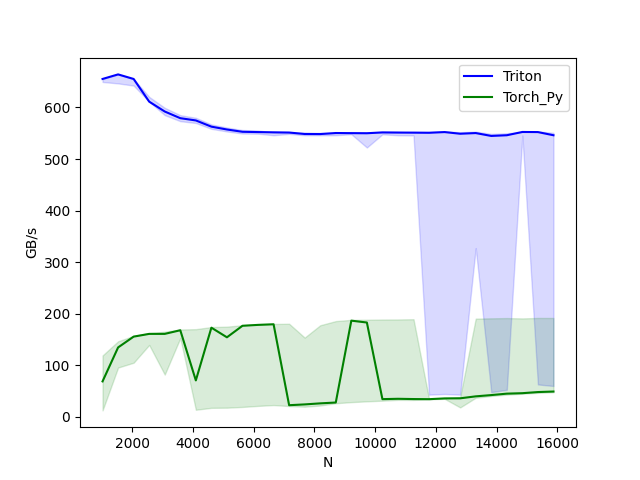
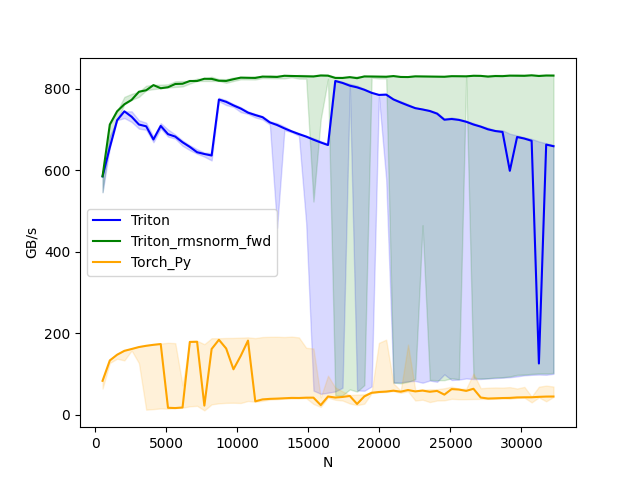
feat: optimized rmsnorm kernel support llama and qwen2

diff --git a/test/kernels_benchmark.py b/test/kernels_benchmark.py
@@ -1,14 +1,13 @@
 import torch, triton, math, os, sys
 
 sys.path.append(os.path.abspath(os.path.join(os.path.dirname(__file__), "../")))
-
-from lite_llama.kernels.fused_linear import fused_ffn
+from lite_llama.kernels.fused_linear import fused_linear
 from lite_llama.kernels.rmsnorm import rmsnorm
+from lite_llama.kernels.rmsnorm_layer import rmsnorm_fwd
 from lite_llama.kernels.layernorm import layernorm
 from lite_llama.kernels.softmax import softmax, naive_softmax, online_softmax
 from lite_llama.kernels.rope import rope as rope_triton
-
-from lite_llama.test.test_torch_rope import LlamaRotaryEmbedding, apply_rotary_emb, apply_rotary_pos_emb
+from lite_llama.kernels.rope_layer import apply_rotary_pos_emb
 try:
     # This is https://github.com/NVIDIA/apex, NOT the apex on PyPi, so it
     # should not be added to extras_require in setup.py.
@@ -18,12 +17,11 @@ except ModuleNotFoundError:
     HAS_APEX = False
     
 def is_cuda():
-    return triton.runtime.driver.active.get_current_target().backend == "cuda"
+    return torch.cuda.is_available()
 
-result_path = "/gemini/code/pytriton_llama/benchmark_result/"
+result_path = "/gemini/code/lite_llama/images"
 ref_lib = 'cuBLAS' if is_cuda() else 'rocBLAS'
 TORCH_HAS_FP8 = hasattr(torch, "float8_e5m2")
-
 ################################benchamrk matmul################################
 configs = []
 for fp8_inputs in [False, True]:
@@ -47,7 +45,7 @@ for fp8_inputs in [False, True]:
 
 
 @triton.testing.perf_report(configs)
-def benchmark(M, N, K, provider, fp8_inputs):
+def benchmark_matmul(M, N, K, provider, fp8_inputs):
     a = torch.randn((M, K), device='cuda', dtype=torch.float16)
     b = torch.randn((K, N), device='cuda', dtype=torch.float16)
     if TORCH_HAS_FP8 and fp8_inputs:
@@ -60,7 +58,7 @@ def benchmark(M, N, K, provider, fp8_inputs):
     if provider == ref_lib.lower():
         ms, min_ms, max_ms = triton.testing.do_bench(lambda: torch.matmul(a, b), quantiles=quantiles)
     if provider == 'triton':
-        ms, min_ms, max_ms = triton.testing.do_bench(lambda: fused_ffn(a, b), quantiles=quantiles)
+        ms, min_ms, max_ms = triton.testing.do_bench(lambda: fused_linear(a, b), quantiles=quantiles)
     perf = lambda ms: 2 * M * N * K * 1e-12 / (ms * 1e-3)
     return perf(ms), perf(max_ms), perf(min_ms)
 
@@ -85,10 +83,10 @@ class RMSNorm(nn.Module):
 @triton.testing.perf_report(
     triton.testing.Benchmark(
         x_names=['N'],
-        x_vals=[512 * i for i in range(2, 32)],
+        x_vals=[512 * i for i in range(1, 64)],
         line_arg='provider',
-        line_vals=['triton', 'torch'] + (['apex'] if HAS_APEX else []),
-        line_names=['Triton', 'Torch_Py'] + (['Apex'] if HAS_APEX else []),
+        line_vals=['triton_rmsnorm', 'triton_rmsnorm_fwd', 'torch'] + (['apex'] if HAS_APEX else []),
+        line_names=['Triton', 'Triton_rmsnorm_fwd', 'Torch_Py'] + (['Apex'] if HAS_APEX else []),
         styles=[('blue', '-'), ('green', '-'), ('orange', '-')],
         ylabel='GB/s',
         plot_name='rms-norm-forward',
@@ -107,17 +105,16 @@ def bench_rmsnorm(M, N, dtype, provider, mode='forward', eps=1e-5, device='cuda'
     quantiles = [0.5, 0.2, 0.8]
 
     def y_fwd():
-        if provider == "triton":
-            return rmsnorm(x, weight)  # noqa: F811, E704
+        if provider == "triton_rmsnorm":
+            return rmsnorm(x, weight, eps=1e-6)  # noqa: F811, E704
 
         if provider == "torch":
             rmsnorm_pytorch = RMSNorm(x_shape[-1]).to(device)
             return rmsnorm_pytorch(x)
             # return torch.nn.functional.rms_norm(x, w_shape, weight, bias, eps)  # noqa: F811, E704
 
-        if provider == "apex":
-            apex_layer_norm = (apex.normalization.FusedLayerNorm(w_shape).to(x.device).to(x.dtype))
-            return apex_layer_norm(x)  # noqa: F811, E704
+        if provider == "triton_rmsnorm_fwd":
+            return rmsnorm_fwd(x, weight, 1e-6)  # noqa: F811, E704
 
     # forward pass
     if mode == 'forward':
@@ -129,7 +126,6 @@ def bench_rmsnorm(M, N, dtype, provider, mode='forward', eps=1e-5, device='cuda'
 bench_rmsnorm.run(print_data=True, save_path=result_path)
 
 ################################benchamrk layernorm################################
-
 @triton.testing.perf_report(
     triton.testing.Benchmark(
         x_names=['N'],
@@ -142,6 +138,7 @@ bench_rmsnorm.run(print_data=True, save_path=result_path)
         plot_name='layer-norm-forward',
         args={'M': 4096, 'dtype': torch.float16, 'mode': 'forward'},
     ))
+
 def bench_layer_norm(M, N, dtype, provider, mode='forward', eps=1e-5, device='cuda'):
     # create data
     x_shape = (M, N)
@@ -193,7 +190,8 @@ bench_layer_norm.run(print_data=True, save_path=result_path)
         args={'M': 4096},  # values for function arguments not in `x_names` and `y_name`
     ))
 
-def benchmark(M, N, provider):
+@triton.testing.perf_report(configs)
+def benchmark_softmax(M, N, provider):
     x = torch.randn(M, N, device='cuda', dtype=torch.float32)
     quantiles = [0.5, 0.2, 0.8]
     stream = torch.cuda.Stream()
@@ -224,6 +222,7 @@ gbps(max_ms) 和 gbps(min_ms)：这些值通常用于表示性能的波动范围
 ################################benchamrk flashattention################################
 try:
     from ..lite_llama.kernels.flashattention import flash_attention_v1
+    from ..lite_llama.kernels.flashattentionv2 import flash_attention_v2
     HAS_FLASH = True
 except BaseException:
     HAS_FLASH = False
@@ -260,20 +259,20 @@ for mode in ["fwd"]:
 def bench_flash_attention(BATCH, H, N_CTX, HEAD_DIM, causal, mode, provider, device="cuda"):
     assert mode in ["fwd"]
     dtype = torch.float16
-    if "triton" in provider:
+    if "flashattentionv2" in provider:
         q = torch.randn((BATCH, H, N_CTX, HEAD_DIM), dtype=dtype, device=device)
         k = torch.randn((BATCH, H, N_CTX, HEAD_DIM), dtype=dtype, device=device)
         v = torch.randn((BATCH, H, N_CTX, HEAD_DIM), dtype=dtype, device=device)
     
         sm_scale = 1.3
-        fn = lambda: attention(q, k, v, causal, sm_scale)
+        fn = lambda: flash_attention_v2(q, k, v, causal, sm_scale)
         if mode == "bwd":
             o = fn()
             do = torch.randn_like(o)
             fn = lambda: o.backward(do, retain_graph=True)
         ms = triton.testing.do_bench(fn)
         ms = triton.testing.do_bench(fn)
-    if provider == "flash_me":
+    if provider == "flashattentionv1":
         q = torch.randn((BATCH, H, N_CTX, HEAD_DIM), dtype=dtype, device=device)
         k = torch.randn((BATCH, H, N_CTX, HEAD_DIM), dtype=dtype, device=device)
         v = torch.randn((BATCH, H, N_CTX, HEAD_DIM), dtype=dtype, device=device)
@@ -292,7 +291,12 @@ def bench_flash_attention(BATCH, H, N_CTX, HEAD_DIM, causal, mode, provider, dev
         total_flops *= 2.5  # 2.0(bwd) + 0.5(recompute)
     return total_flops * 1e-12 / (ms * 1e-3)
 
+if __name__ == "__main__":
+    # only works on post-Ampere GPUs right now
+    bench_flash_attention.run(save_path=".", print_data=True)
+
 ################################ benchamrk rope ################################
+"""
 @triton.testing.perf_report(
     triton.testing.Benchmark(
         x_names=['SEQ_LEN'],  # argument names to use as an x-axis for the plot
@@ -301,8 +305,8 @@ def bench_flash_attention(BATCH, H, N_CTX, HEAD_DIM, causal, mode, provider, dev
         # argument name whose value corresponds to a different line in the plot
         line_arg='provider',
         line_vals=[
-            'triton',
-            'cuda',
+            'flashattentionv2',
+            'flashattentionv1',
         ],  # possible values for `line_arg``
         line_names=[
             "Triton",
@@ -339,9 +343,4 @@ def benchmark(SEQ_LEN, HIDDEN_SIZE, BATCH_SIZE, HEAD_NUM, provider):
     def gbps(ms): return 2 * x.nelement() * \
         x.element_size() * 1e-9 / (ms * 1e-3)
     return gbps(ms), gbps(max_ms), gbps(min_ms)
-
-benchmark.run(show_plots=True, print_data=True)
-
-if __name__ == "__main__":
-    # only works on post-Ampere GPUs right now
-    bench_flash_attention.run(save_path=".", print_data=True)
+"""

diff --git a/lite_llama/kernels/rmsnorm.py b/lite_llama/kernels/rmsnorm.py
@@ -1,21 +1,20 @@
 # modified from https://triton-lang.org/main/getting-started/tutorials/05-layer-norm.html
 import triton,torch, os
 import triton.language as tl 
+from .utils import calculate_settings
 
 @triton.jit
 def _rmsnorm_kernel_fwd(
-    x_ptr, # shape is [M, N]
+    x_ptr, # shape is [M, K]
     w_ptr, # gamma 参数地址
     z_ptr, # 输出结果首元素指针
-    K,
-    eps,  # epsilon to avoid division by zero
+    K,     # 权重 W 大小, 也是输入 X 的第二维度大小
+    eps,   # epsilon to avoid division by zero
     BLOCK_SIZE: tl.constexpr = 8,
 ):
-    # z = (x / (rms)) * w
-    
+    """z = (x / (rms)) * w"""
     row_idx = tl.program_id(0)
     x_row_ptr = x_ptr + row_idx * K # 一行有 K 个元素，K 是最后一维
-    w_row_ptr = w_ptr + row_idx * K
     z_row_ptr = z_ptr + row_idx * K
     
     # Compute variance
@@ -35,13 +34,13 @@ def _rmsnorm_kernel_fwd(
         col_offsets = col_index + tl.arange(0, BLOCK_SIZE)
         mask = col_offsets < K
         
-        x = tl.load(x_row_ptr + col_offsets, mask = mask, other=0.0)
+        x = tl.load(x_row_ptr + col_offsets, mask = mask, other=0.0).to(tl.float32)
         w = tl.load(w_ptr + col_offsets, mask = mask).to(tl.float32)
         
         normed = x * rsqrt
         normed = normed.to(w.dtype) # Exact copy from HF
-        z =normed * w
-        tl.store(z_row_ptr + col_offsets, z, mask = mask)
+        z = normed * w
+        tl.store(z_row_ptr + col_offsets, z.to(z.dtype), mask = mask)
         
 @torch.no_grad()
 def rmsnorm(
@@ -49,51 +48,60 @@ def rmsnorm(
     weight,
     eps = 1e-5
 ):
-    # 只针对 nlp 领域的 layernorm，省去了 normalized_shape 参数
-    assert x.is_contiguous()
-    assert weight.is_contiguous()
-    assert x.shape[-1] == weight.shape[0]
-    
+    z = torch.empty_like(x) # z 是三维的, [B, L, K]
     out_shape = x.shape
-    # 将 x 的所有维度压缩为二维张量, [B, L, K] -> [M, K], K 是隐藏层的维度。
-    x = x.view((-1, x.shape[-1]))
+    x = x.view((-1, x.shape[-1])) # 将 x 的所有维度压缩为二维张量, [B, L, K] -> [M, K], K 是隐藏层的维度。
     M, K = x.shape
-    x = x.view((M, K))
-    z = torch.empty(x.shape, device=x.device, dtype=x.dtype)
     
     # Less than 64KB per feature: enqueue fused kernel
-    MAX_FUSED_SIZE = 65536 // x.element_size()
-    BLOCK_SIZE = min(MAX_FUSED_SIZE, triton.next_power_of_2(K))
-
-    grid = (triton.cdiv(K, BLOCK_SIZE), 1)
+    # MAX_FUSED_SIZE = 65536 // x.element_size() # 用于返回张量中单个元素的大小（以字节为单位）。 
+    BLOCK_SIZE, num_warps = calculate_settings(K)
+    if K > BLOCK_SIZE:
+        raise RuntimeError("This layer norm doesn't support feature dim >= 64KB.")
+    # heuristics for number of warps
+    num_warps = min(max(BLOCK_SIZE // 256, 1), 8)
     _rmsnorm_kernel_fwd[M, ](
         x,
         weight,
         z,
         K, 
-        eps = eps,
-        BLOCK_SIZE=BLOCK_SIZE,    
+        eps=eps,
+        BLOCK_SIZE=BLOCK_SIZE,
+        num_warps=num_warps, 
     )  
     return z.view(out_shape)
 
-def torch_rms_norm(x, weight, eps):
-    return x * torch.rsqrt(x.pow(2).mean(-1, keepdim=True) + eps) * weight
+def test_rms_layernorm(
+    dim = 1024, eps = 1e-5, dtype = torch.float16,
+    bsz = 21, random_state = 3407, seqlen = 3341,
+):
+    from transformers.models.llama.modeling_llama import LlamaRMSNorm
+    layernorm = LlamaRMSNorm((dim,), eps = eps).to("cuda")
+    torch.cuda.manual_seed(random_state)
+    torch.manual_seed(random_state)
+    torch.nn.init.uniform_(layernorm.weight)
+    X = torch.randn((bsz, seqlen, dim), dtype = dtype, device = "cuda")
+    Y = layernorm(X)
+    Y2 = rmsnorm(X, layernorm.weight, eps)
 
-def test_rms_norm(M, N, dtype, eps=1e-5, device="cuda"):
-    # create data
-    x_shape = (M, N)
-    w_shape = (x_shape[-1],)
-    weight = torch.rand(w_shape, dtype=dtype, device="cuda")
-    x = -2.3 + 0.5 * torch.randn(x_shape, dtype=dtype, device="cuda")
-    # forward pass
-    y_tri = rmsnorm(x, weight, eps)
-    y_ref = torch_rms_norm(x.to(torch.float32), weight.to(torch.float32), eps).to(dtype)
+    assert(torch.amax(Y - Y2).item() <= 0.05)
+    print("max delta:", torch.max(torch.abs(Y - Y2)))
 
-    # compare
-    print("type:", y_tri.dtype, y_ref.dtype)
-    print("max delta:", torch.max(torch.abs(y_tri - y_ref)))
-    assert torch.allclose(y_tri, y_ref, atol=1e-3, rtol=0)
-    return
+
+def testing_suite_layernorm():
+    for dim in [512, 1024, 2048]:
+        for dtype in [torch.float16, torch.bfloat16]:
+            with torch.autocast(device_type = "cuda", dtype = dtype):
+                for seqlen in [3341, 2048, 349]:
+                    for random_state in [3407, 42]:
+                        test_rms_layernorm(
+                            dim = dim,
+                            eps = 1e-5,
+                            dtype = dtype,
+                            bsz = 21,
+                            random_state = random_state,
+                            seqlen = seqlen,
+                        )
 
 if __name__ == "__main__":
-    test_rms_norm(100, 256, torch.float16)
+    testing_suite_layernorm()

diff --git a/lite_llama/models/qwen2.py b/lite_llama/models/qwen2.py
@@ -199,7 +199,7 @@ class Qwen2DecoderLayer(nn.Module):
         position_embeddings: Optional[Tuple[torch.Tensor, torch.Tensor]] = None,
     ) -> torch.Tensor:
         # Normalization BEFORE the attention block. # (B, Seq_Len, Dim) + (B, Seq_Len, Dim) --> (B, Seq_Len, Dim)
-        hidden_states = rmsnorm(x, self.input_layernorm_weight.data, eps=self.rms_norm_eps)
+        hidden_states = rmsnorm_fwd(x, self.input_layernorm_weight.data, eps=self.rms_norm_eps)
 
         # 调用 attention 模块
         attn_output = self.self_attn(hidden_states, atten_info, layer_index, position_embeddings)
@@ -208,7 +208,7 @@ class Qwen2DecoderLayer(nn.Module):
         h = x + attn_output  # 残差连接
 
         # Normalization BEFORE the feed forward block. # (B, Seq_Len, Dim) + (B, Seq_Len, Dim) --> (B, Seq_Len, Dim)
-        hidden_states = rmsnorm(h, self.post_attention_layernorm_weight.data, eps=self.rms_norm_eps)
+        hidden_states = rmsnorm_fwd(h, self.post_attention_layernorm_weight.data, eps=self.rms_norm_eps)
 
         # Feed Forward
         feedforward_output = self.mlp(hidden_states)
@@ -257,7 +257,7 @@ class Qwen2Model(nn.Module):
             # self.hidden_states.append(h)
             h = layer(h, atten_info, i, position_embeddings)  # h.shape [batch_size, seq_len, hidden_dim]
 
-        h = rmsnorm(h, self.norm_weight, eps=self.config.rms_norm_eps)
+        h = rmsnorm_fwd(h, self.norm_weight, eps=self.config.rms_norm_eps)
         # self.hidden_states.append(h)
         
         output = torch.matmul(h, self.lm_head_weight.t().contiguous()) # .t() 返回一个新的张量，表示原始张量的转置。

diff --git a/lite_llama/models/llama.py b/lite_llama/models/llama.py
@@ -152,7 +152,7 @@ class LlamaDecoderLayer(nn.Module):
     ):
         # Normalization before the attention block.
         _, seq_len, _ = x.shape
-        hidden_states = rmsnorm(x, self.attention_norm_weight.data, eps=self.config.rms_norm_eps)
+        hidden_states = rmsnorm_fwd(x, self.attention_norm_weight.data, eps=self.config.rms_norm_eps)
 
         # attention 部分计算结果正确, 张量尺寸符合要求
         if seq_len > 1:
@@ -165,7 +165,7 @@ class LlamaDecoderLayer(nn.Module):
             )
         h = x + attn_output
         # Normalization before the feed forward block.
-        hidden_states = rmsnorm(h, self.ffn_norm_weight.data, eps=self.config.rms_norm_eps)
+        hidden_states = rmsnorm_fwd(h, self.ffn_norm_weight.data, eps=self.config.rms_norm_eps)
         out = h + self.mlp.forward(hidden_states)
 
         return out
@@ -218,7 +218,7 @@ class LlamaModel(nn.Module):
             h = layer(h, atten_info, i, position_embeddings)  # h.shape [batch_size, seq_len, hidden_dim]
             # assert not torch.isnan(h).any(), f"In {i} decoder layer, h tensor contains NaN values!"
 
-        h = rmsnorm(h, self.norm_weight.data, eps=self.config.rms_norm_eps)
+        h = rmsnorm_fwd(h, self.norm_weight.data, eps=self.config.rms_norm_eps)
         # self.hidden_states.append(h)
         output = self.lm_head(h)
 

diff --git a/examples/benchmark.py b/examples/benchmark.py
@@ -234,8 +234,8 @@ def main():
     #     "Roosevelt was the first president of the United States,",
     # ]
 
-    hf_model_name = "/gemini/code/llm_weights/Qwen/Qwen2.5-7B-Instruct"
-    checkpoints_dir = "/gemini/code/lite_llama/my_weight/Qwen2.5-7B-Instruct"  # 根据实际情况修改
+    hf_model_name = "/gemini/code/Llama-3.2-1B-Instruct"
+    checkpoints_dir = "/gemini/code/lite_llama/my_weight/Llama-3.2-1B-Instruct"  # 根据实际情况修改
 
     compare_inference_speed(
         prompts=prompts,

diff --git a/lite_llama/kernels/rope_layer.py b/lite_llama/kernels/rope_layer.py
@@ -239,3 +239,5 @@ class LigerRopeFunction(torch.autograd.Function):
         cos, sin = ctx.saved_tensors
         dq, dk = rope_backward(dq, dk, cos, sin)
         return dq, dk, None, None, None, None
+
+apply_rotary_pos_emb = LigerRopeFunction.apply

diff --git a/lite_llama/kernels/__init__.py b/lite_llama/kernels/__init__.py
@@ -1,4 +1,5 @@
 from .rmsnorm import rmsnorm
+from .rmsnorm_layer import rmsnorm_fwd
 from .layernorm import layernorm
 from .activations import (gelu, relu, leaky_relu, tanh)
 from .activation_layers import ACT2FN
